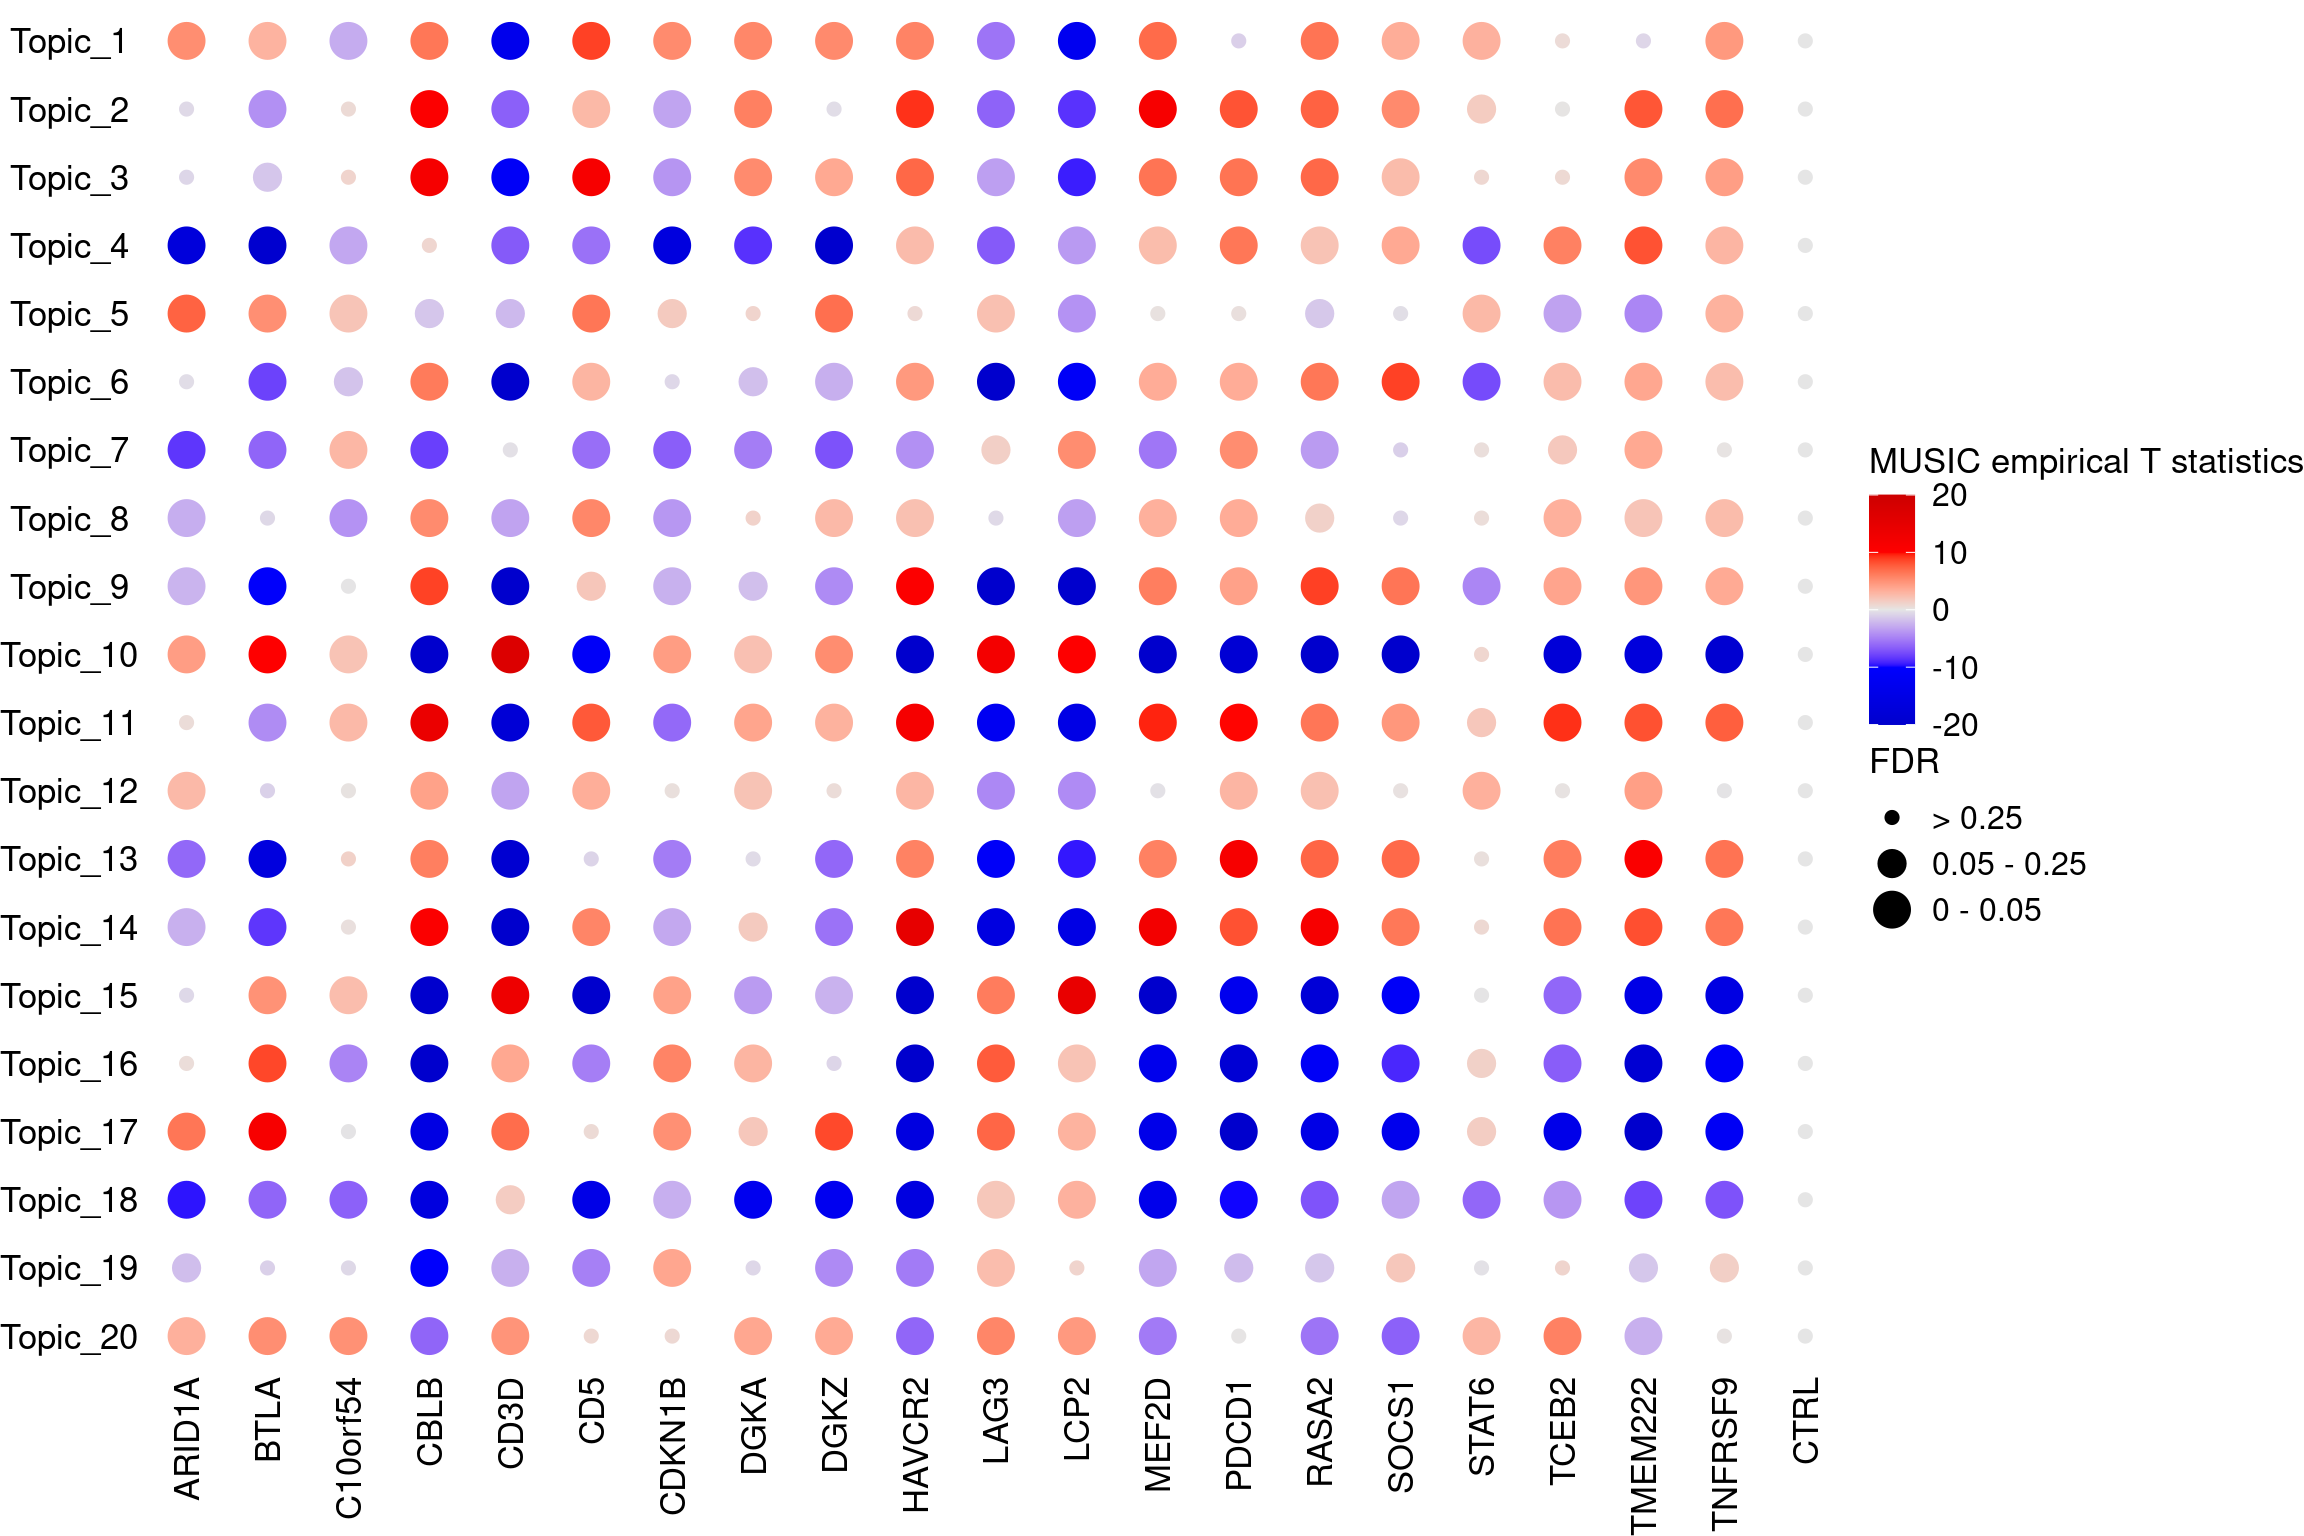
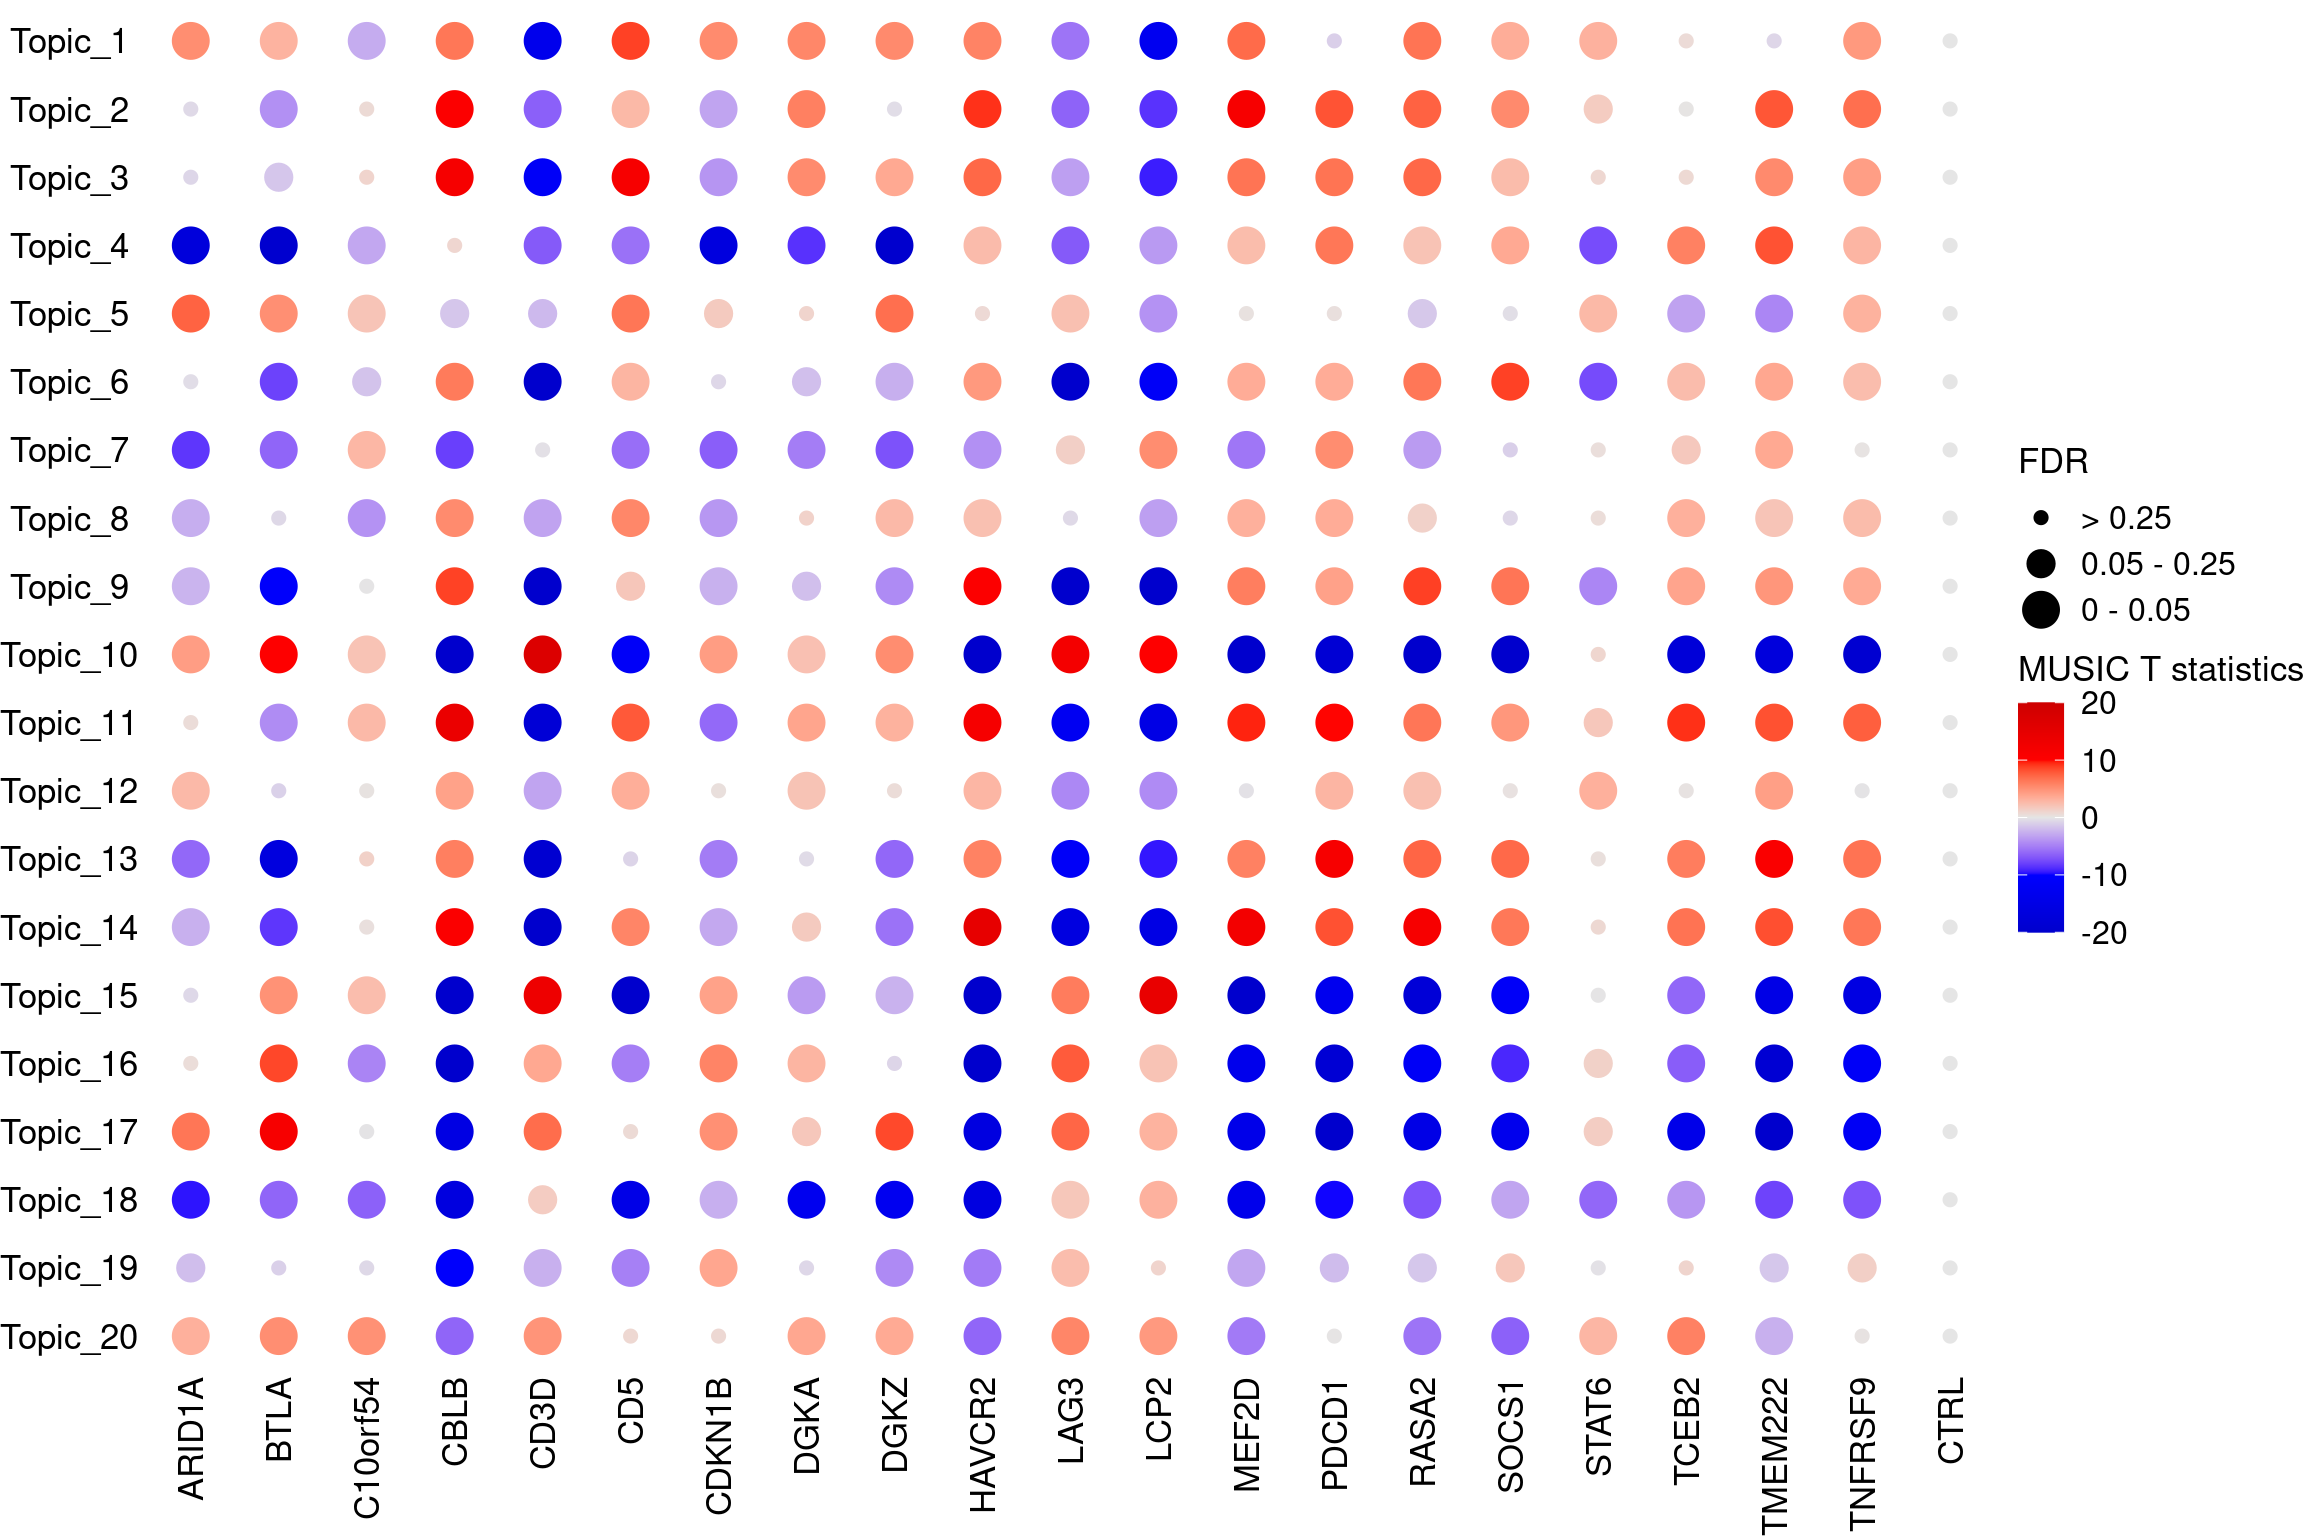
Build site.

Changed region(s): [[0.0625, 0.0, 1.0, 1.0], [0.9688, 0.4062, 1.0, 0.4375], [0.0625, 0.5, 0.0938, 0.5312]]

diff --git a/docs/music_TCells_data.html b/docs/music_TCells_data.html
@@ -481,16 +481,16 @@ This reproducible <a href="https://rmarkdown.rstudio.com">R Markdown</a> analysi
 <div class="panel panel-default">
 <div class="panel-heading">
 <p class="panel-title">
-<a data-toggle="collapse" data-parent="#workflowr-checks" href="#strongRepositoryversionstrongahrefhttpsgithubcomkevinlkxGSFAanalysistree87e2aa2679a6e1c176cd9cd3bf24d516f2987eactargetblank87e2aa2a"> <span class="glyphicon glyphicon-ok text-success" aria-hidden="true"></span> <strong>Repository version:</strong> <a href="https://github.com/kevinlkx/GSFA-analysis/tree/87e2aa2679a6e1c176cd9cd3bf24d516f2987eac" target="_blank">87e2aa2</a> </a>
+<a data-toggle="collapse" data-parent="#workflowr-checks" href="#strongRepositoryversionstrongahrefhttpsgithubcomkevinlkxGSFAanalysistreeee2a305e9c91352f00972793ec47f0e18db8556dtargetblankee2a305a"> <span class="glyphicon glyphicon-ok text-success" aria-hidden="true"></span> <strong>Repository version:</strong> <a href="https://github.com/kevinlkx/GSFA-analysis/tree/ee2a305e9c91352f00972793ec47f0e18db8556d" target="_blank">ee2a305</a> </a>
 </p>
 </div>
[2 lines of base64/hex data omitted]
 <div class="panel-body">
 <p>
 Great! You are using Git for version control. Tracking code development and connecting the code version to the results is critical for reproducibility.
 </p>
 <p>
-The results in this page were generated with repository version <a href="https://github.com/kevinlkx/GSFA-analysis/tree/87e2aa2679a6e1c176cd9cd3bf24d516f2987eac" target="_blank">87e2aa2</a>. See the <em>Past versions</em> tab to see a history of the changes made to the R Markdown and HTML files.
+The results in this page were generated with repository version <a href="https://github.com/kevinlkx/GSFA-analysis/tree/ee2a305e9c91352f00972793ec47f0e18db8556d" target="_blank">ee2a305</a>. See the <em>Past versions</em> tab to see a history of the changes made to the R Markdown and HTML files.
 </p>
 <p>
 Note that you need to be careful to ensure that all relevant files for the analysis have been committed to Git prior to generating the results (you can use <code>wflow_publish</code> or <code>wflow_git_commit</code>). workflowr only checks the R Markdown file, but you know if there are other scripts or data files that it depends on. Below is the status of the Git repository when the results were generated:
@@ -519,6 +519,7 @@ Untracked files:
     Untracked:  code/seurat_sim_fpr_tpr.R
 
 Unstaged changes:
+    Modified:   analysis/music_LUHMES_data.Rmd
     Modified:   analysis/sceptre_LUHMES_data.Rmd
     Modified:   code/run_sceptre_cropseq_data.sbatch
     Modified:   code/sceptre_analysis.R
@@ -560,6 +561,40 @@ Message
 </tr>
 </thead>
 <tbody>
+<tr>
+<td>
+Rmd
+</td>
+<td>
+<a href="https://github.com/kevinlkx/GSFA-analysis/blob/ee2a305e9c91352f00972793ec47f0e18db8556d/analysis/music_TCells_data.Rmd" target="_blank">ee2a305</a>
+</td>
+<td>
+kevinlkx
+</td>
+<td>
+2022-07-29
+</td>
+<td>
+update doplot figure legend
+</td>
+</tr>
+<tr>
+<td>
+html
+</td>
+<td>
+<a href="https://rawcdn.githack.com/kevinlkx/GSFA-analysis/26259553168f3f06cefc06f2932f7e9f1aca6b9d/docs/music_TCells_data.html" target="_blank">2625955</a>
+</td>
+<td>
+kevinlkx
+</td>
+<td>
+2022-07-29
+</td>
+<td>
+Build site.
+</td>
+</tr>
 <tr>
 <td>
 Rmd
@@ -1129,7 +1164,7 @@ kevinlkx
 KO_names &lt;- rownames(fdr_mat)
 dotplot_effectsize(t(effect_mat), t(fdr_mat),
                    reorder_markers = c(KO_names[KO_names!=&quot;CTRL&quot;], &quot;CTRL&quot;),
-                   color_lgd_title = &quot;MUSIC empirical T statistics&quot;,
+                   color_lgd_title = &quot;MUSIC T statistics&quot;,
                    size_lgd_title = &quot;FDR&quot;,
                    max_score = 20,
                    min_score = -20,
@@ -1414,7 +1449,7 @@ kevinlkx
 KO_names &lt;- rownames(fdr_mat)
 dotplot_effectsize(t(effect_mat), t(fdr_mat),
                    reorder_markers = c(KO_names[KO_names!=&quot;CTRL&quot;], &quot;CTRL&quot;),
-                   color_lgd_title = &quot;MUSIC empirical T statistics&quot;,
+                   color_lgd_title = &quot;MUSIC T statistics&quot;,
                    size_lgd_title = &quot;FDR&quot;,
                    max_score = 20,
                    min_score = -20,
